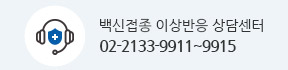
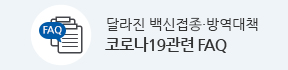
sc-service ,sc-corona 완료

Changed region(s): [[0.3438, 0.2571, 0.9375, 0.4571], [0.3438, 0.5143, 0.8438, 0.7714], [0.125, 0.2286, 0.3125, 0.8]]

diff --git a/asset/scss/page/_main.scss b/asset/scss/page/_main.scss
@@ -259,3 +259,141 @@
         }
     }
 }
+
+.sc-service{
+    position: relative;
+    padding-top: 50px;
+    .sc-title{
+        margin-bottom: 20px;
+        padding-bottom: 10px;
+        border-bottom: 1px solid #dbdbdb;
+    }
+    .service-list{
+        display: flex;
+        text-align: center;
+    }
+    .service-item{
+        flex: 1;
+        height: 90px;
+        a{
+            display: flex;
+            flex-direction: column;
+            width: 100%;
+            height: 100%;
+            font-size: 15px;
+            &::before{
+                content: '';
+                display: inline-block;
+                vertical-align: top;
+                width: 60px;
+                height: 60px;
+                margin: 0 auto 10px;
+                @include sp-bg2;
+                background-position: -360px 0;
+            }
+        }
+        &:nth-of-type(2){
+            a{
+                &::before{
+                    background-position: 0 0;
+                }
+            }
+        }
+        &:nth-of-type(3){
+            a{
+                &::before{
+                    background-position: -120px 0;
+                }
+            }
+        }
+        &:nth-of-type(4){
+            a{
+                &::before{
+                    background-position: -300px 0;
+                }
+            }
+        }
+        &:nth-of-type(5){
+            a{
+                &::before{
+                    background-position: -180px 0;
+                }
+            }
+        }
+        &:nth-of-type(6){
+            a{
+                &::before{
+                    background-position: -960px 0;
+                }
+            }
+        }
+        &:nth-of-type(7){
+            a{
+                &::before{
+                    background-position: -780px 0;
+                }
+            }
+        }
+        &:nth-of-type(8){
+            a{
+                &::before{
+                    background-position: -1140px 0;
+                }
+            }
+        }
+        &:nth-of-type(9){
+            a{
+                &::before{
+                    background-position: -1020px 0;
+                }
+            }
+        }
+        &:nth-of-type(10){
+            a{
+                &::before{
+                    background-position: -60px 0;
+                }
+            }
+        }
+        &:nth-of-type(11){
+            a{
+                &::before{
+                    background-position: -600px 0;
+                }
+            }
+        }
+    }
+    .link-asite{
+        position: absolute;
+        position: absolute;
+        right: 0;
+        top: 50px;
+        display: block;
+        width: 112px;
+        height: 29px;
+        line-height: 28px;
+        padding-left: 13px;
+        border: 1px solid #ddd;
+        box-sizing: border-box;
+        font-size: 15px;
+        background: url(../images/ic-link.png) no-repeat right 13px top 50%;
+    }
+}
+.sc-corona{
+    margin-top: 35px;
+    background: #eff4f8;
+    .corona-list{
+        display: flex;
+    }
+    .corona-item{
+        padding: 20px 0;
+        a{
+            display: block;
+        }
+        & + li{
+            a{
+                border-left:1px solid #dbdbdb;
+            }
+        }
+    }
+}

diff --git a/asset/css/style.css b/asset/css/style.css
@@ -748,3 +748,102 @@ input, select, button, fieldset {
 .sc-visual .mayor-area .link-box a + a {
   margin-left: 10px;
 }
+
+.sc-service {
+  position: relative;
+  padding-top: 50px;
+}
+.sc-service .sc-title {
+  margin-bottom: 20px;
+  padding-bottom: 10px;
+  border-bottom: 1px solid #dbdbdb;
+}
+.sc-service .service-list {
+  display: flex;
+  text-align: center;
+}
+.sc-service .service-item {
+  flex: 1;
+  height: 90px;
+}
+.sc-service .service-item a {
+  display: flex;
+  flex-direction: column;
+  width: 100%;
+  height: 100%;
+  font-size: 15px;
+}
+.sc-service .service-item a::before {
+  content: "";
+  display: inline-block;
+  vertical-align: top;
+  width: 60px;
+  height: 60px;
+  margin: 0 auto 10px;
+  background-image: url(../images/sp-bg2.png);
+  background-repeat: no-repeat;
+  background-size: 1200px;
+  background-position: -360px 0;
+}
+.sc-service .service-item:nth-of-type(2) a::before {
+  background-position: 0 0;
+}
+.sc-service .service-item:nth-of-type(3) a::before {
+  background-position: -120px 0;
+}
+.sc-service .service-item:nth-of-type(4) a::before {
+  background-position: -300px 0;
+}
+.sc-service .service-item:nth-of-type(5) a::before {
+  background-position: -180px 0;
+}
+.sc-service .service-item:nth-of-type(6) a::before {
+  background-position: -960px 0;
+}
+.sc-service .service-item:nth-of-type(7) a::before {
+  background-position: -780px 0;
+}
+.sc-service .service-item:nth-of-type(8) a::before {
+  background-position: -1140px 0;
+}
+.sc-service .service-item:nth-of-type(9) a::before {
+  background-position: -1020px 0;
+}
+.sc-service .service-item:nth-of-type(10) a::before {
+  background-position: -60px 0;
+}
+.sc-service .service-item:nth-of-type(11) a::before {
+  background-position: -600px 0;
+}
+.sc-service .link-asite {
+  position: absolute;
+  position: absolute;
+  right: 0;
+  top: 50px;
+  display: block;
+  width: 112px;
+  height: 29px;
+  line-height: 28px;
+  padding-left: 13px;
+  border: 1px solid #ddd;
+  box-sizing: border-box;
+  font-size: 15px;
+  background: url(../images/ic-link.png) no-repeat right 13px top 50%;
+}
+
+.sc-corona {
+  margin-top: 35px;
+  background: #eff4f8;
+}
+.sc-corona .corona-list {
+  display: flex;
+}
+.sc-corona .corona-item {
+  padding: 20px 0;
+}
+.sc-corona .corona-item a {
+  display: block;
+}
+.sc-corona .corona-item + li a {
+  border-left: 1px solid #dbdbdb;
+}

diff --git a/asset/scss/abstracts/_mixins.scss b/asset/scss/abstracts/_mixins.scss
@@ -29,6 +29,11 @@
     background-repeat: no-repeat;
     background-size: 300px;
 }
+@mixin sp-bg2{
+    background-image: url(../images/sp-bg2.png);
+    background-repeat: no-repeat;
+    background-size: 1200px;
+}
 @mixin sp-bg3{
     background-image: url(../images/sp-bg3.png);
     background-repeat: no-repeat;
